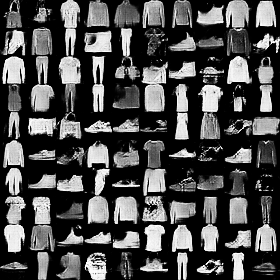
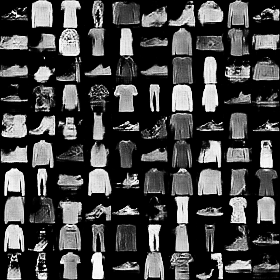
add dragan, modify wgan loss

diff --git a/dragan.py b/dragan.py
@@ -6,7 +6,7 @@ import utils
 import network
 
 
-class WGAN(object):
+class DRAGAN(object):
     def __init__(self, name, dataset_type, mnist_loader, epochs):
         # prepare directories
         self.assets_dir = './assets/{:s}'.format(name)
@@ -23,7 +23,7 @@ class WGAN(object):
         # tunable parameters
         self.z_dim = 100
         self.learning_rate = 0.0002
-        self.d_train_freq = 5
+        self.lmbd_gp = 0.25
         self.epochs = epochs
         self.batch_size = 128
         self.print_every = 30
@@ -35,6 +35,7 @@ class WGAN(object):
 
         # create placeholders
         self.inputs_x = tf.placeholder(tf.float32, [None, 28, 28, 1], name='inputs_x')
+        self.inputs_p = tf.placeholder(tf.float32, [None, 28, 28, 1], name='inputs_p')
         self.inputs_z = tf.placeholder(tf.float32, [None, self.z_dim], name='inputs_z')
 
         # create generator & discriminator
@@ -43,21 +44,31 @@ class WGAN(object):
         self.d_fake_logits = network.discriminator(self.g_out, reuse=True, is_training=True)
 
         # compute model loss
-        self.d_loss, self.g_loss = self.model_loss(self.d_real_logits, self.d_fake_logits)
+        self.d_loss, self.g_loss = self.model_loss(self.d_real_logits, self.d_fake_logits,
+                                                   self.inputs_x, self.inputs_p, self.lmbd_gp)
 
         # model optimizer
-        self.d_opt, self.g_opt, self.d_weight_clip = self.model_opt(self.d_loss, self.g_loss)
+        self.d_opt, self.g_opt = self.model_opt(self.d_loss, self.g_loss)
         return
 
     @ staticmethod
-    def model_loss(d_real_logits, d_fake_logits):
+    def model_loss(d_real_logits, d_fake_logits, inputs_x, inputs_p, lmbd_gp):
+        # compute gradient penalty
+        alpha = tf.random_uniform(shape=[], minval=0., maxval=1.)
+        differences = inputs_p - inputs_x
+        interpolated = inputs_x + (alpha * differences)
+        d_interpolate_logits = network.discriminator(interpolated, reuse=True, is_training=True)
+        gradients = tf.gradients(d_interpolate_logits, [interpolated])[0]
+        slopes = tf.sqrt(tf.reduce_sum(tf.square(gradients), reduction_indices=[1]))
+        gradient_penalty = tf.reduce_mean((slopes - 1.) ** 2)
+
         # discriminator loss
-        d_loss_real = -tf.reduce_mean(d_real_logits)
-        d_loss_fake = tf.reduce_mean(d_fake_logits)
-        d_loss = d_loss_real + d_loss_fake
+        d_loss_real = utils.celoss_ones(d_real_logits)
+        d_loss_fake = utils.celoss_zeros(d_fake_logits)
+        d_loss = d_loss_real + d_loss_fake + lmbd_gp * gradient_penalty
 
         # generator loss
-        g_loss = -tf.reduce_mean(d_fake_logits)
+        g_loss = utils.celoss_ones(d_fake_logits)
         return d_loss, g_loss
 
     def model_opt(self, d_loss, g_loss):
@@ -72,10 +83,7 @@ class WGAN(object):
             d_train_opt = tf.train.AdamOptimizer(self.learning_rate, beta1=beta1).minimize(d_loss, var_list=d_vars)
             g_train_opt = tf.train.AdamOptimizer(self.learning_rate, beta1=beta1).minimize(g_loss, var_list=g_vars)
 
-        # weight clipping
-        d_weight_clip = [p.assign(tf.clip_by_value(p, -0.01, 0.01)) for p in d_vars]
-
-        return d_train_opt, g_train_opt, d_weight_clip
+        return d_train_opt, g_train_opt
 
     def train(self):
         val_size = self.val_block_size * self.val_block_size
@@ -95,25 +103,27 @@ class WGAN(object):
                     batch_x = np.reshape(batch_x, (-1, 28, 28, 1))
                     batch_x = batch_x * 2.0 - 1.0
 
+                    # purturb inputs
+                    batch_p = utils.get_perturbed_batch(batch_x)
+
                     # Sample random noise for G
                     batch_z = np.random.uniform(-1, 1, size=(self.batch_size, self.z_dim))
 
                     fd = {
                         self.inputs_x: batch_x,
+                        self.inputs_p: batch_p,
                         self.inputs_z: batch_z
                     }
 
-                    # Run optimizers (train D more than G)
+                    # Run optimizers
                     _ = sess.run(self.d_opt, feed_dict=fd)
-                    _ = sess.run(self.d_weight_clip)
-                    if ii % self.d_train_freq == 0:
-                        _ = sess.run(self.g_opt, feed_dict=fd)
+                    _ = sess.run(self.g_opt, feed_dict=fd)
 
                     # print losses
                     if steps % self.print_every == 0:
                         # At the end of each epoch, get the losses and print them out
-                        train_loss_d = self.d_loss.eval({self.inputs_x: batch_x, self.inputs_z: batch_z})
-                        train_loss_g = self.g_loss.eval({self.inputs_z: batch_z})
+                        train_loss_d = self.d_loss.eval(fd)
+                        train_loss_g = self.g_loss.eval(fd)
 
                         print("Epoch {}/{}...".format(e + 1, self.epochs),
                               "Discriminator Loss: {:.4f}...".format(train_loss_d),

diff --git a/wgan_gp.py b/wgan_gp.py
@@ -63,12 +63,12 @@ class WGANGP(object):
         gradient_penalty = tf.reduce_mean((slopes - 1.) ** 2)
 
         # discriminator loss
-        d_loss_real = tf.reduce_mean(d_real_logits)
-        d_loss_fake = -tf.reduce_mean(d_fake_logits)
+        d_loss_real = -tf.reduce_mean(d_real_logits)
+        d_loss_fake = tf.reduce_mean(d_fake_logits)
         d_loss = d_loss_real + d_loss_fake + lmbd_gp * gradient_penalty
 
         # generator loss
-        g_loss = tf.reduce_mean(d_fake_logits)
+        g_loss = -tf.reduce_mean(d_fake_logits)
         return d_loss, g_loss
 
     def model_opt(self, d_loss, g_loss):

diff --git a/main.py b/main.py
@@ -6,6 +6,7 @@ import gan
 import cgan
 import wgan
 import wgan_gp
+import dragan
 
 
 def main():
@@ -34,6 +35,8 @@ def main():
             net = wgan.WGAN(model_name, mnist_type, mnist, epochs)
         elif model_name == 'wgan-gp':
             net = wgan_gp.WGANGP(model_name, mnist_type, mnist, epochs)
+        elif model_name == 'dragan':
+            net = dragan.DRAGAN(model_name, mnist_type, mnist, epochs)
         else:
             net = None
 

diff --git a/README.md b/README.md
@@ -13,7 +13,7 @@
 | CGAN | ![](./results/cgan/original-MNIST-val-e001.png) | ![](./results/cgan/original-MNIST-val-e015.png) | ![](./results/cgan/original-MNIST-val-e030.png) |
 | WGAN | ![](./results/wgan/original-MNIST-val-e001.png) | ![](./results/wgan/original-MNIST-val-e015.png) | ![](./results/wgan/original-MNIST-val-e030.png) |
 | WGAN-GP | ![](./results/wgan-gp/original-MNIST-val-e001.png) | ![](./results/wgan-gp/original-MNIST-val-e015.png) | ![](./results/wgan-gp/original-MNIST-val-e030.png) |
-| DRAGAN | ![](./results/dragan/original-MNIST-val-e001.png) | ![](./results/vanilla-gan/original-MNIST-val-e015.png) | ![](./results/vanilla-gan/original-MNIST-val-e030.png) |
+| DRAGAN | ![](./results/dragan/original-MNIST-val-e001.png) | ![](./results/dragan/original-MNIST-val-e015.png) | ![](./results/dragan/original-MNIST-val-e030.png) |
   
 
 
